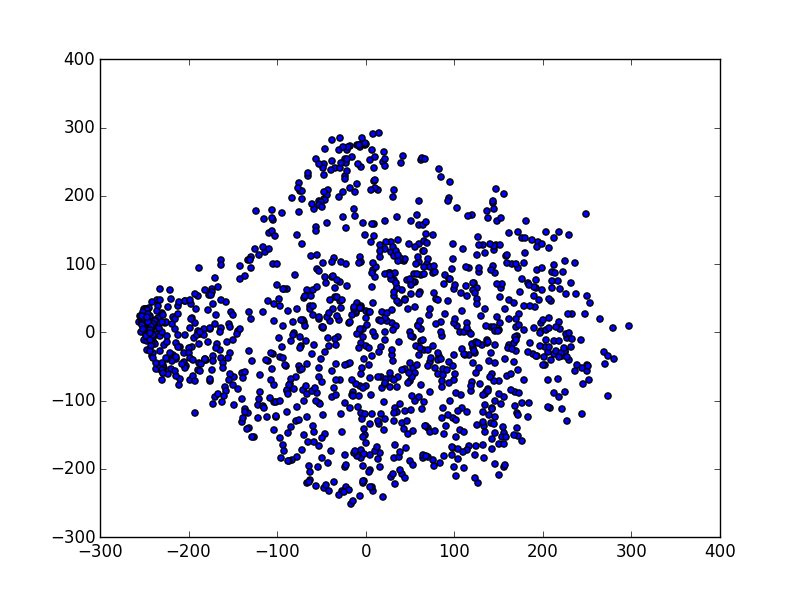
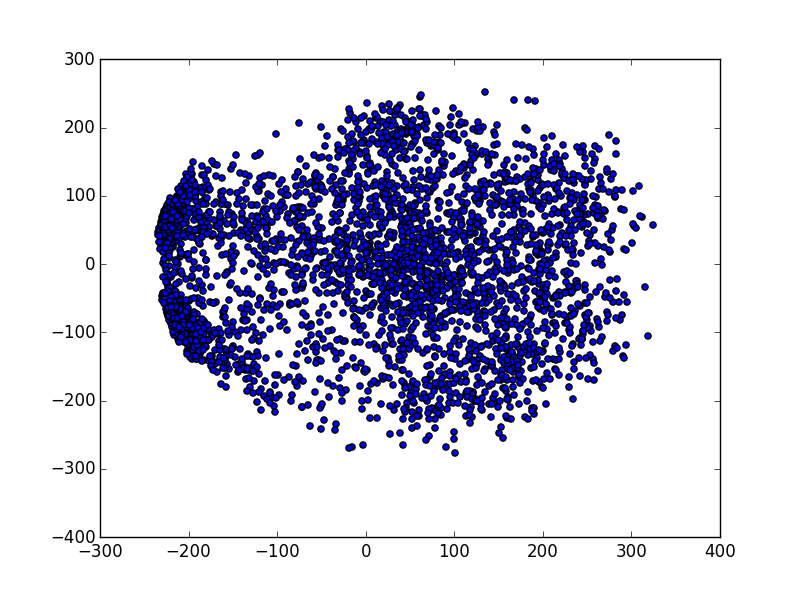
Add more mario descriptors. Plot descriptors on principle components. Plot k-means.

diff --git a/Final_Project/SIFT_Descriptors/Find_Sift_Descriptors/find_sift_descriptors.py b/Final_Project/SIFT_Descriptors/Find_Sift_Descriptors/find_sift_descriptors.py
@@ -2,6 +2,7 @@ __author__ = 'jacobchen2272'
 import cv2
 import os
 from Final_Project.SIFT_Descriptors.SIFT_DatabaseManager import DatabaseManager as dbm
+from Final_Project.SIFT_Descriptors.Models import SIFT_Object as so
 
 
 def find_sift_descriptors(img_file_name):
@@ -13,18 +14,25 @@ def find_sift_descriptors(img_file_name):
     img_sift = cv2.drawKeypoints(gray,kp,flags=cv2.DRAW_MATCHES_FLAGS_DRAW_RICH_KEYPOINTS)
     file_name = os.path.splitext('Mario SIFT Descriptors/' + os.path.basename(img_file_name))[0] + '-keypoints.jpg'
     cv2.imwrite(file_name,img_sift)
-    return (img, gray), kp, des
+    sift_obj = so.SIFT_Object(img, gray, kp, des)
+    return sift_obj
 
 
 if __name__ == "__main__":
 
+    objects = []
     # Get the keypoints and descriptors
-    (img1_color, img1_gray), kp1, des1 = find_sift_descriptors('Mario Images/Mario_1.jpg')
-    (img2_color, img2_gray), kp2, des2 = find_sift_descriptors('Mario Images/Mario_2.jpg')
-    (img3_color, img3_gray), kp3, des3 = find_sift_descriptors('Mario Images/Mario_3.jpg')
+    objects.append(find_sift_descriptors('Mario Images/Mario_1.jpg'))
+    objects.append(find_sift_descriptors('Mario Images/Mario_2.jpg'))
+    objects.append(find_sift_descriptors('Mario Images/Mario_3.jpg'))
+    objects.append(find_sift_descriptors('Mario Images/Mario_4.jpg'))
+    objects.append(find_sift_descriptors('Mario Images/Mario_5.jpg'))
+    objects.append(find_sift_descriptors('Mario Images/Mario_6.jpg'))
+    objects.append(find_sift_descriptors('Mario Images/Mario_7.jpg'))
+    objects.append(find_sift_descriptors('Mario Images/Mario_8.jpg'))
+
 
     # Store it into the database
     mongo_manager = dbm.DBManager()
-    mongo_manager.insert_kp_des(kp1, des1)
-    mongo_manager.insert_kp_des(kp2, des2)
-    mongo_manager.insert_kp_des(kp3, des3)
+    for sift_object in objects:
+        mongo_manager.insert_kp_des(sift_object)

diff --git a/Final_Project/SIFT_Descriptors/SIFT_Clustering/clustering.py b/Final_Project/SIFT_Descriptors/SIFT_Clustering/clustering.py
@@ -1,8 +1,10 @@
 __author__ = 'jacobchen2272'
 from Final_Project.SIFT_Descriptors.SIFT_DatabaseManager import DatabaseManager as dbm
+from Final_Project.SIFT_Descriptors.Models import K_Means as km
 from sklearn.decomposition import PCA
 import pylab as pl
 import matplotlib.pyplot as plt
+from sklearn.cluster import KMeans
 import cv2
 
 
@@ -13,8 +15,16 @@ def cluster_sift_objects():
     pca = PCA(n_components=2)
     pca.fit(dess)
     dess_reduced = pca.transform(dess)
-    plt.scatter(dess_reduced[:,0], dess_reduced[:,1])
-    plt.show()
+    #plt.scatter(dess_reduced[:,0], dess_reduced[:,1])
+    #plt.show()
+    k_means = KMeans(n_clusters=5, random_state=0)  # Fixing the RNG in kmeans
+    k_means.fit(dess)
+    cluster_centers = k_means.cluster_centers_
+    y_pred = k_means.predict(dess)
+    pl.scatter(dess_reduced[:, 0], dess_reduced[:, 1], c=y_pred)
+    pl.show()
+    km_object = km.K_Means(cluster_centers, y_pred)
+    return km_object
 
 
 if __name__ == "__main__":

diff --git a/Final_Project/SIFT_Descriptors/SIFT_DatabaseManager/DatabaseManager.py b/Final_Project/SIFT_Descriptors/SIFT_DatabaseManager/DatabaseManager.py
@@ -2,6 +2,7 @@ __author__ = 'jacobchen2272'
 import pymongo as pym
 from pymongo import errors
 from Final_Project.SIFT_Descriptors.Models import Keypoint as kpt
+from Final_Project.SIFT_Descriptors.Models import SIFT_Object as so
 import numpy as np
 import cv2
 
@@ -23,8 +24,9 @@ class DBManager:
             print 'Creating a new collection'
             self.database.create_collection('SIFT')
 
-    def insert_kp_des(self, kps, des):
-
+    def insert_kp_des(self, sift_object):
+        kps = sift_object.keypoints
+        des = sift_object.descriptors
         for x in range(0, len(kps)):
             kp = kps[x]
             descriptor = des[x]
@@ -43,7 +45,6 @@ class DBManager:
                     "data":str(descriptor)
                 }
             }
-
             self.descriptor_collection.insert_one(sift_obj)
 
     def get_all_sift_objects(self):

diff --git a/Final_Project/SIFT_Descriptors/Models/SIFT_Object.py b/Final_Project/SIFT_Descriptors/Models/SIFT_Object.py
@@ -1,0 +1,15 @@
+__author__ = 'jacobchen2272'
+
+
+class SIFT_Object:
+
+    gray_image = None
+    color_image = None
+    keypoints = None
+    descriptors = None
+
+    def __init__(self, color, gray, kp, des):
+        self.color_image = color
+        self.gray_image = gray
+        self.keypoints = kp
+        self.descriptors = des

diff --git a/Final_Project/SIFT_Descriptors/Models/K_Means.py b/Final_Project/SIFT_Descriptors/Models/K_Means.py
@@ -1,0 +1,11 @@
+__author__ = 'jacobchen2272'
+
+
+class K_Means:
+
+    cluster_centers = None
+    prediction_labels = None
+
+    def __init__(self, centers, predictions):
+        self.cluster_centers = centers
+        self.prediction_labels = predictions

diff --git a/Final_Project/SIFT_Descriptors/Test_Descriptors/Test.py b/Final_Project/SIFT_Descriptors/Test_Descriptors/Test.py
@@ -1,0 +1,1 @@
+__author__ = 'jacobchen2272'

diff --git a/Final_Project/SIFT_Descriptors/Test_Descriptors/__init__.py b/Final_Project/SIFT_Descriptors/Test_Descriptors/__init__.py
@@ -1,0 +1,1 @@
+__author__ = 'jacobchen2272'
